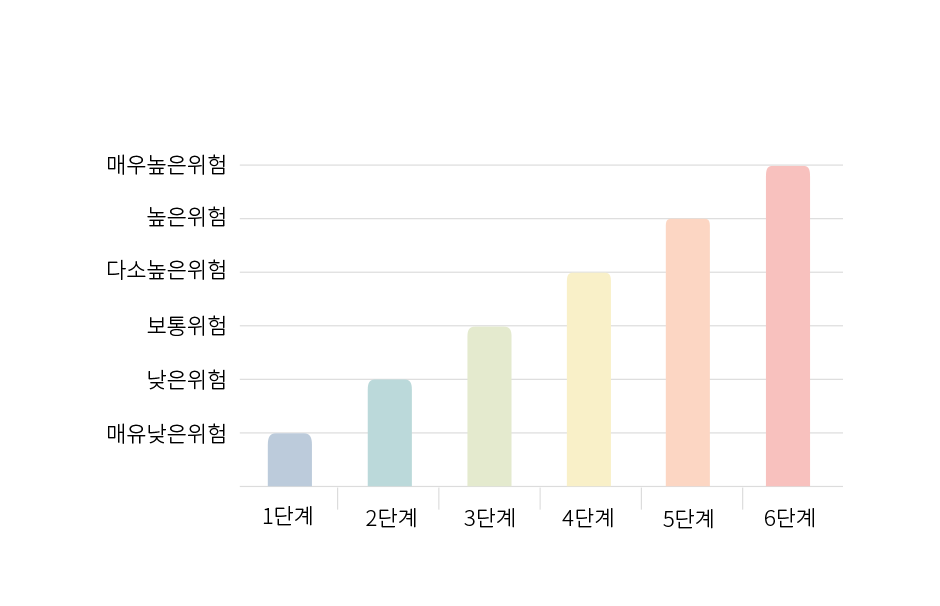
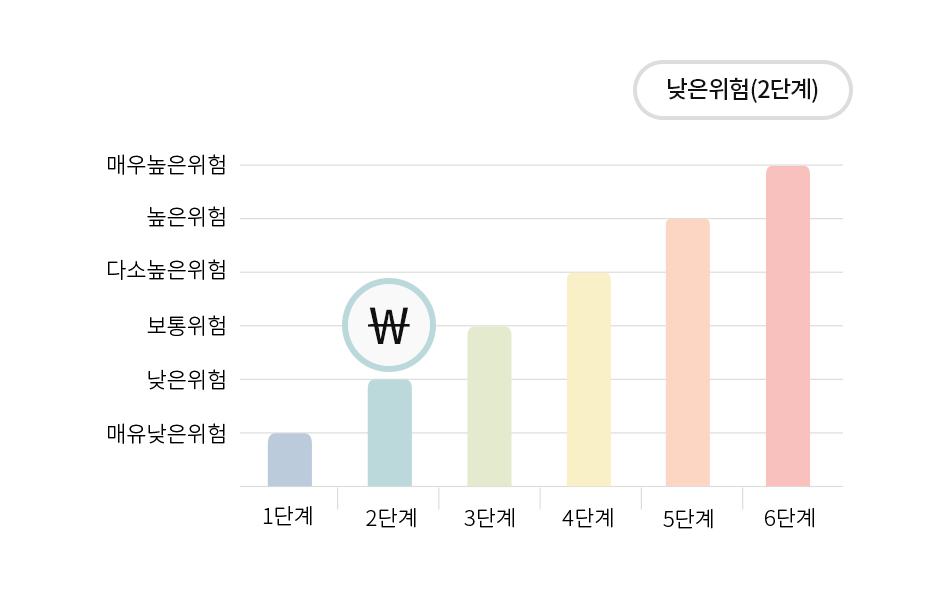
#474 [태블릿브랜치] 우체국고객 > 가입상품조회 화면 3차 수정

Changed region(s): [[0.6787, 0.0891, 0.8947, 0.2079], [0.3394, 0.4455, 0.4628, 0.6238], [0.8947, 0.1188, 0.9255, 0.1782]]

diff --git a/resources/css/content.css b/resources/css/content.css
@@ -659,11 +659,32 @@
 .service_wrap .item_info .total {
   margin-top: -22px;
   color: #111;
+  letter-spacing: -.05em;
   text-align: right;
 }
 
 .service_wrap .item_info .tit {
   font-weight: 300;
+}
+
+.service_wrap .item_info .lab_date {
+  display: -webkit-inline-box;
+  display: -ms-inline-flexbox;
+  display: inline-flex;
+  -webkit-box-align: center;
+      -ms-flex-align: center;
+          align-items: center;
+  -webkit-box-pack: center;
+      -ms-flex-pack: center;
+          justify-content: center;
+  min-width: 65px;
+  height: 22px;
+  padding: 0 8px;
+  margin-right: 5px;
+  border: 2px solid transparent;
+  border-radius: 11px;
+  font-size: 13px;
+  font-weight: 400;
 }
 
 .service_wrap .item_info .amount {
@@ -672,7 +693,6 @@
   font-weight: 600;
   line-height: 1.2;
   word-break: break-word;
-  letter-spacing: -.05em;
 }
 
 .service_wrap .item_info .amount span {
@@ -1234,6 +1254,10 @@
 
 .service_wrap .service_type9 .item_info .left {
   background-image: url(/resources/img/content/bg_service9@2x.png);
+}
+
+.service_wrap .service_type9 .item_info .lab_date {
+  border-color: #a1e1ff;
 }
 
 .service_wrap .service_type9 .item_list > li {

diff --git a/resources/scss/pages/_oldCustomerSinglePages.scss b/resources/scss/pages/_oldCustomerSinglePages.scss
@@ -227,11 +227,26 @@
 		.total {
 			margin-top: -22px;
 			color: $black;
+			letter-spacing: -.05em;
 			text-align: right;
 		}
 
 		.tit {
 			font-weight: 300;
+		}
+
+		.lab_date {
+			display: inline-flex;
+			align-items: center;
+			justify-content: center;
+			min-width: 65px;
+			height: 22px;
+			padding: 0 8px;
+			margin-right: 5px;
+			border: 2px solid transparent;
+			border-radius: 11px;
+			font-size: $font-size-xs;
+			font-weight: 400;
 		}
 
 		.amount {
@@ -240,7 +255,6 @@
 			font-weight: 600;
 			line-height: 1.2;
 			word-break: break-word;
-			letter-spacing: -.05em;
 
 			span {
 				display: block;
@@ -802,6 +816,10 @@
 		.item_info {
 			.left {
 				background-image: url(#{$url-img}/content/bg_service9@2x.png);
+			}
+
+			.lab_date {
+				border-color: #a1e1ff;
 			}
 		}
 

diff --git a/html/triqtd00bl_가입상품조회_예금_가입상품조회(예금).html b/html/triqtd00bl_가입상품조회_예금_가입상품조회(예금).html
@@ -96,7 +96,7 @@
 								</div>
 								<div class="right">
 									<span class="date">
-										<i class="ico ico_time_red"></i>
+										<i class="ico ico_clock_red"></i>
 										<span>만기일 : 2022.12.10</span>
 									</span>
 									<span class="amount">100,000,000원</span>
@@ -219,7 +219,7 @@
 								</div>
 								<div class="right">
 									<span class="date">
-										<i class="ico ico_time_red"></i>
+										<i class="ico ico_clock_red"></i>
 										<span>만기일 : 2022.12.10</span>
 									</span>
 									<span class="amount">100,000,000원</span>
